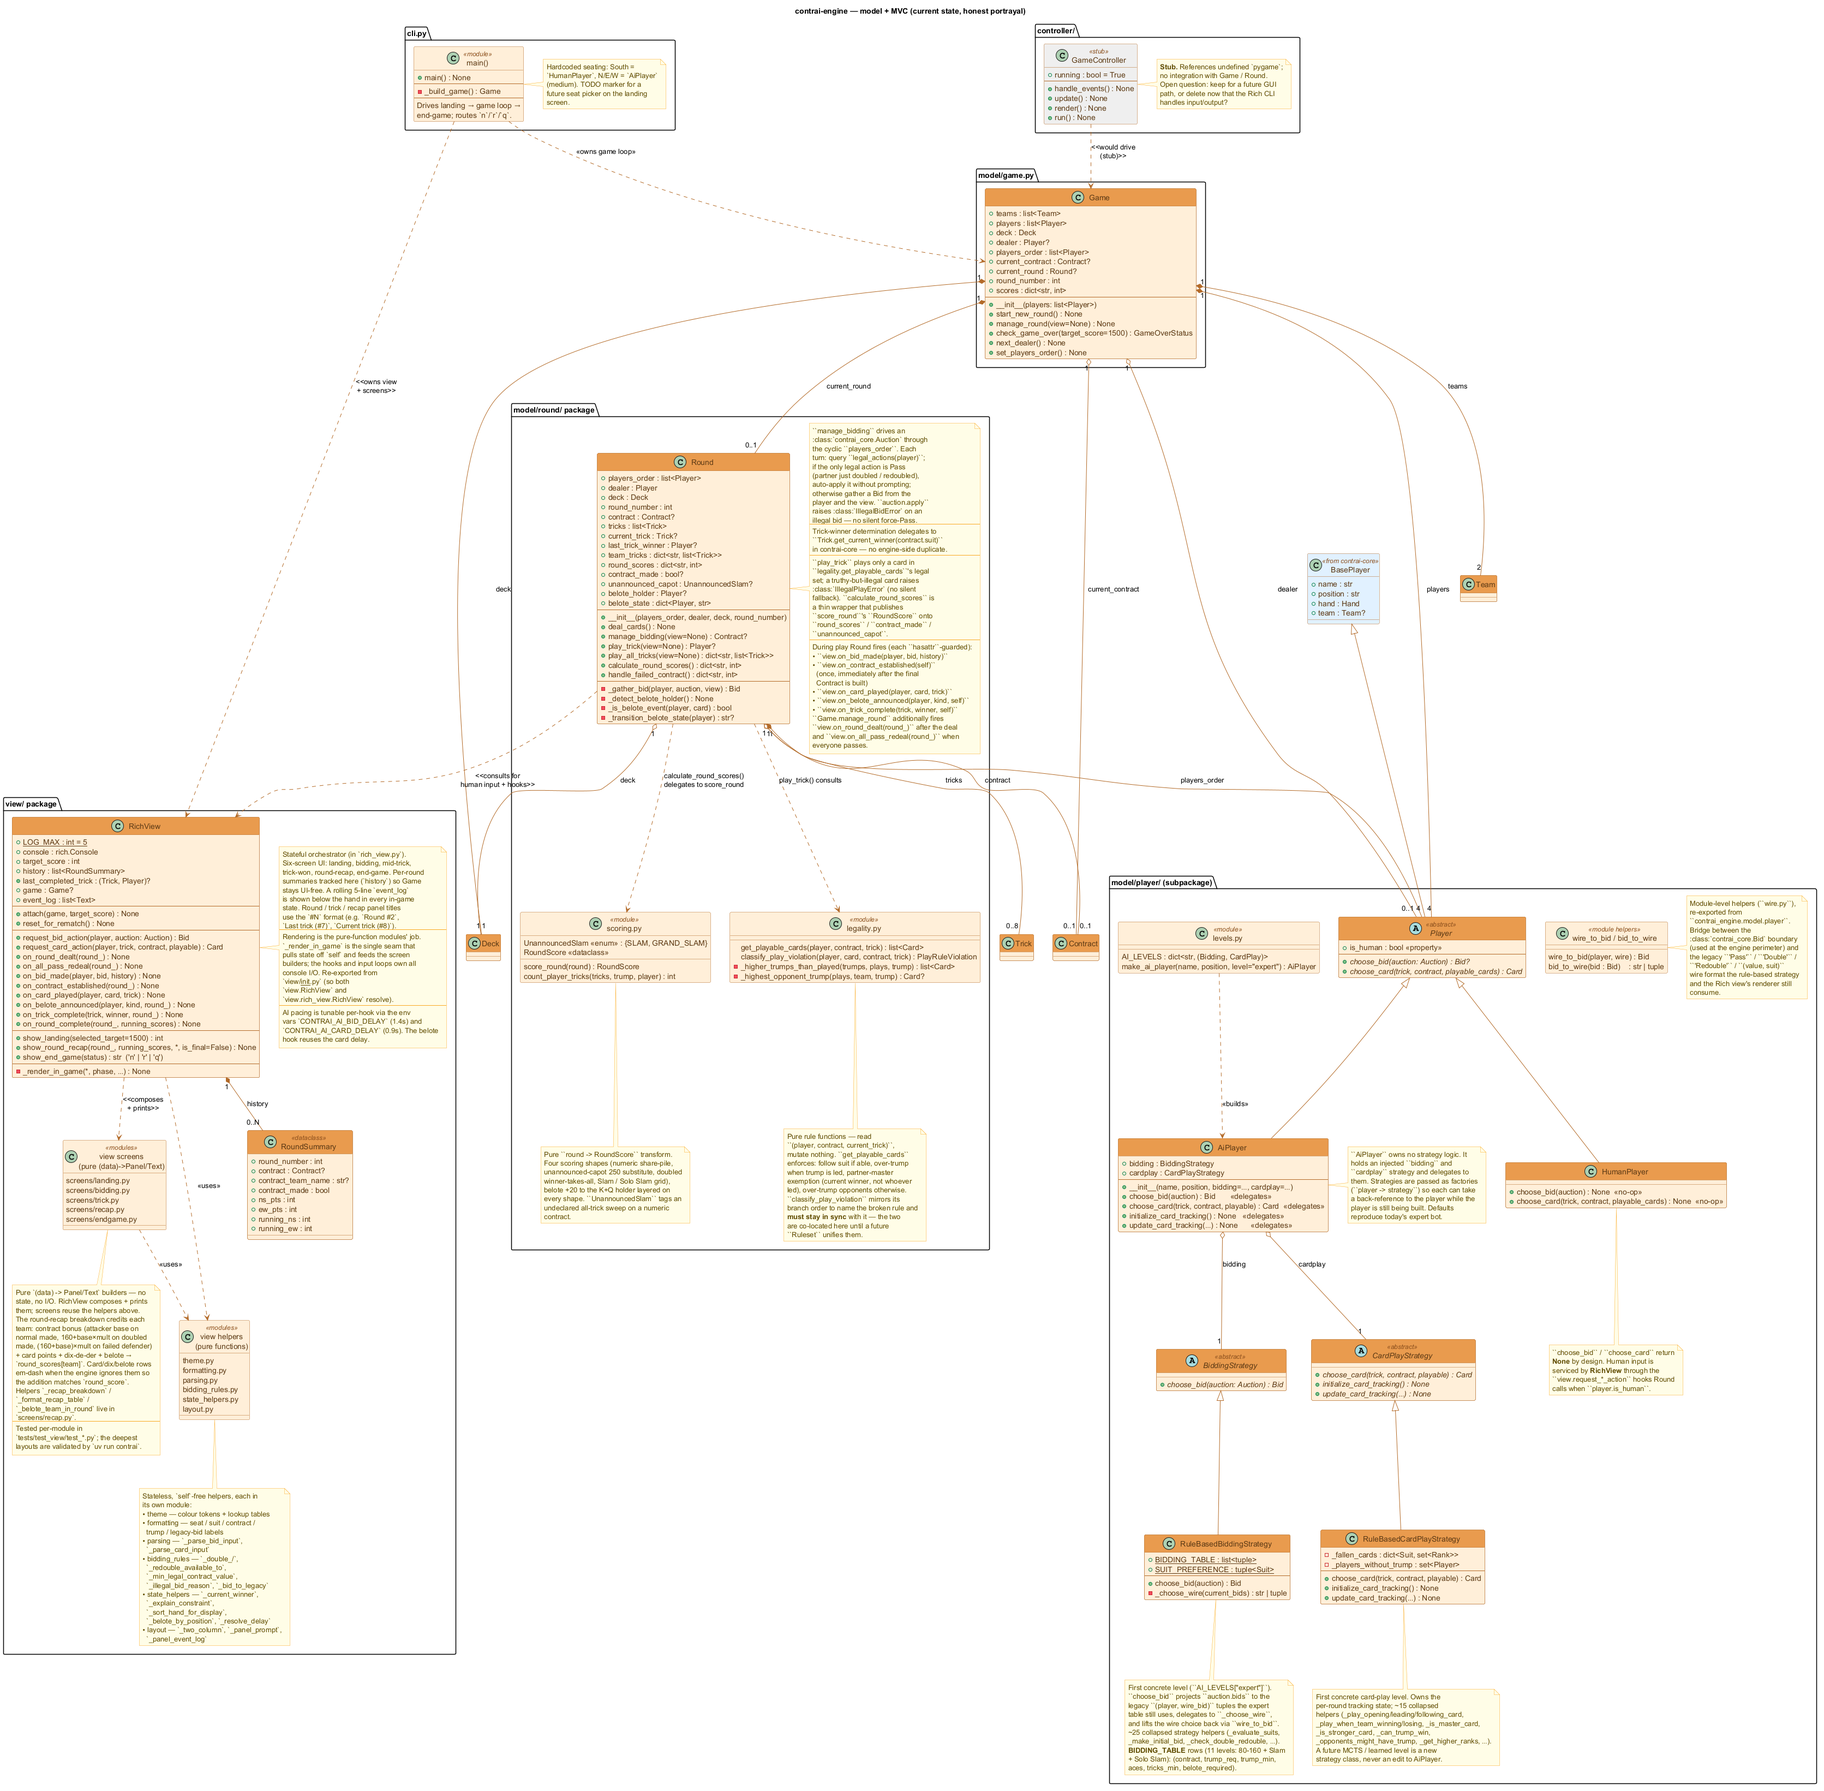
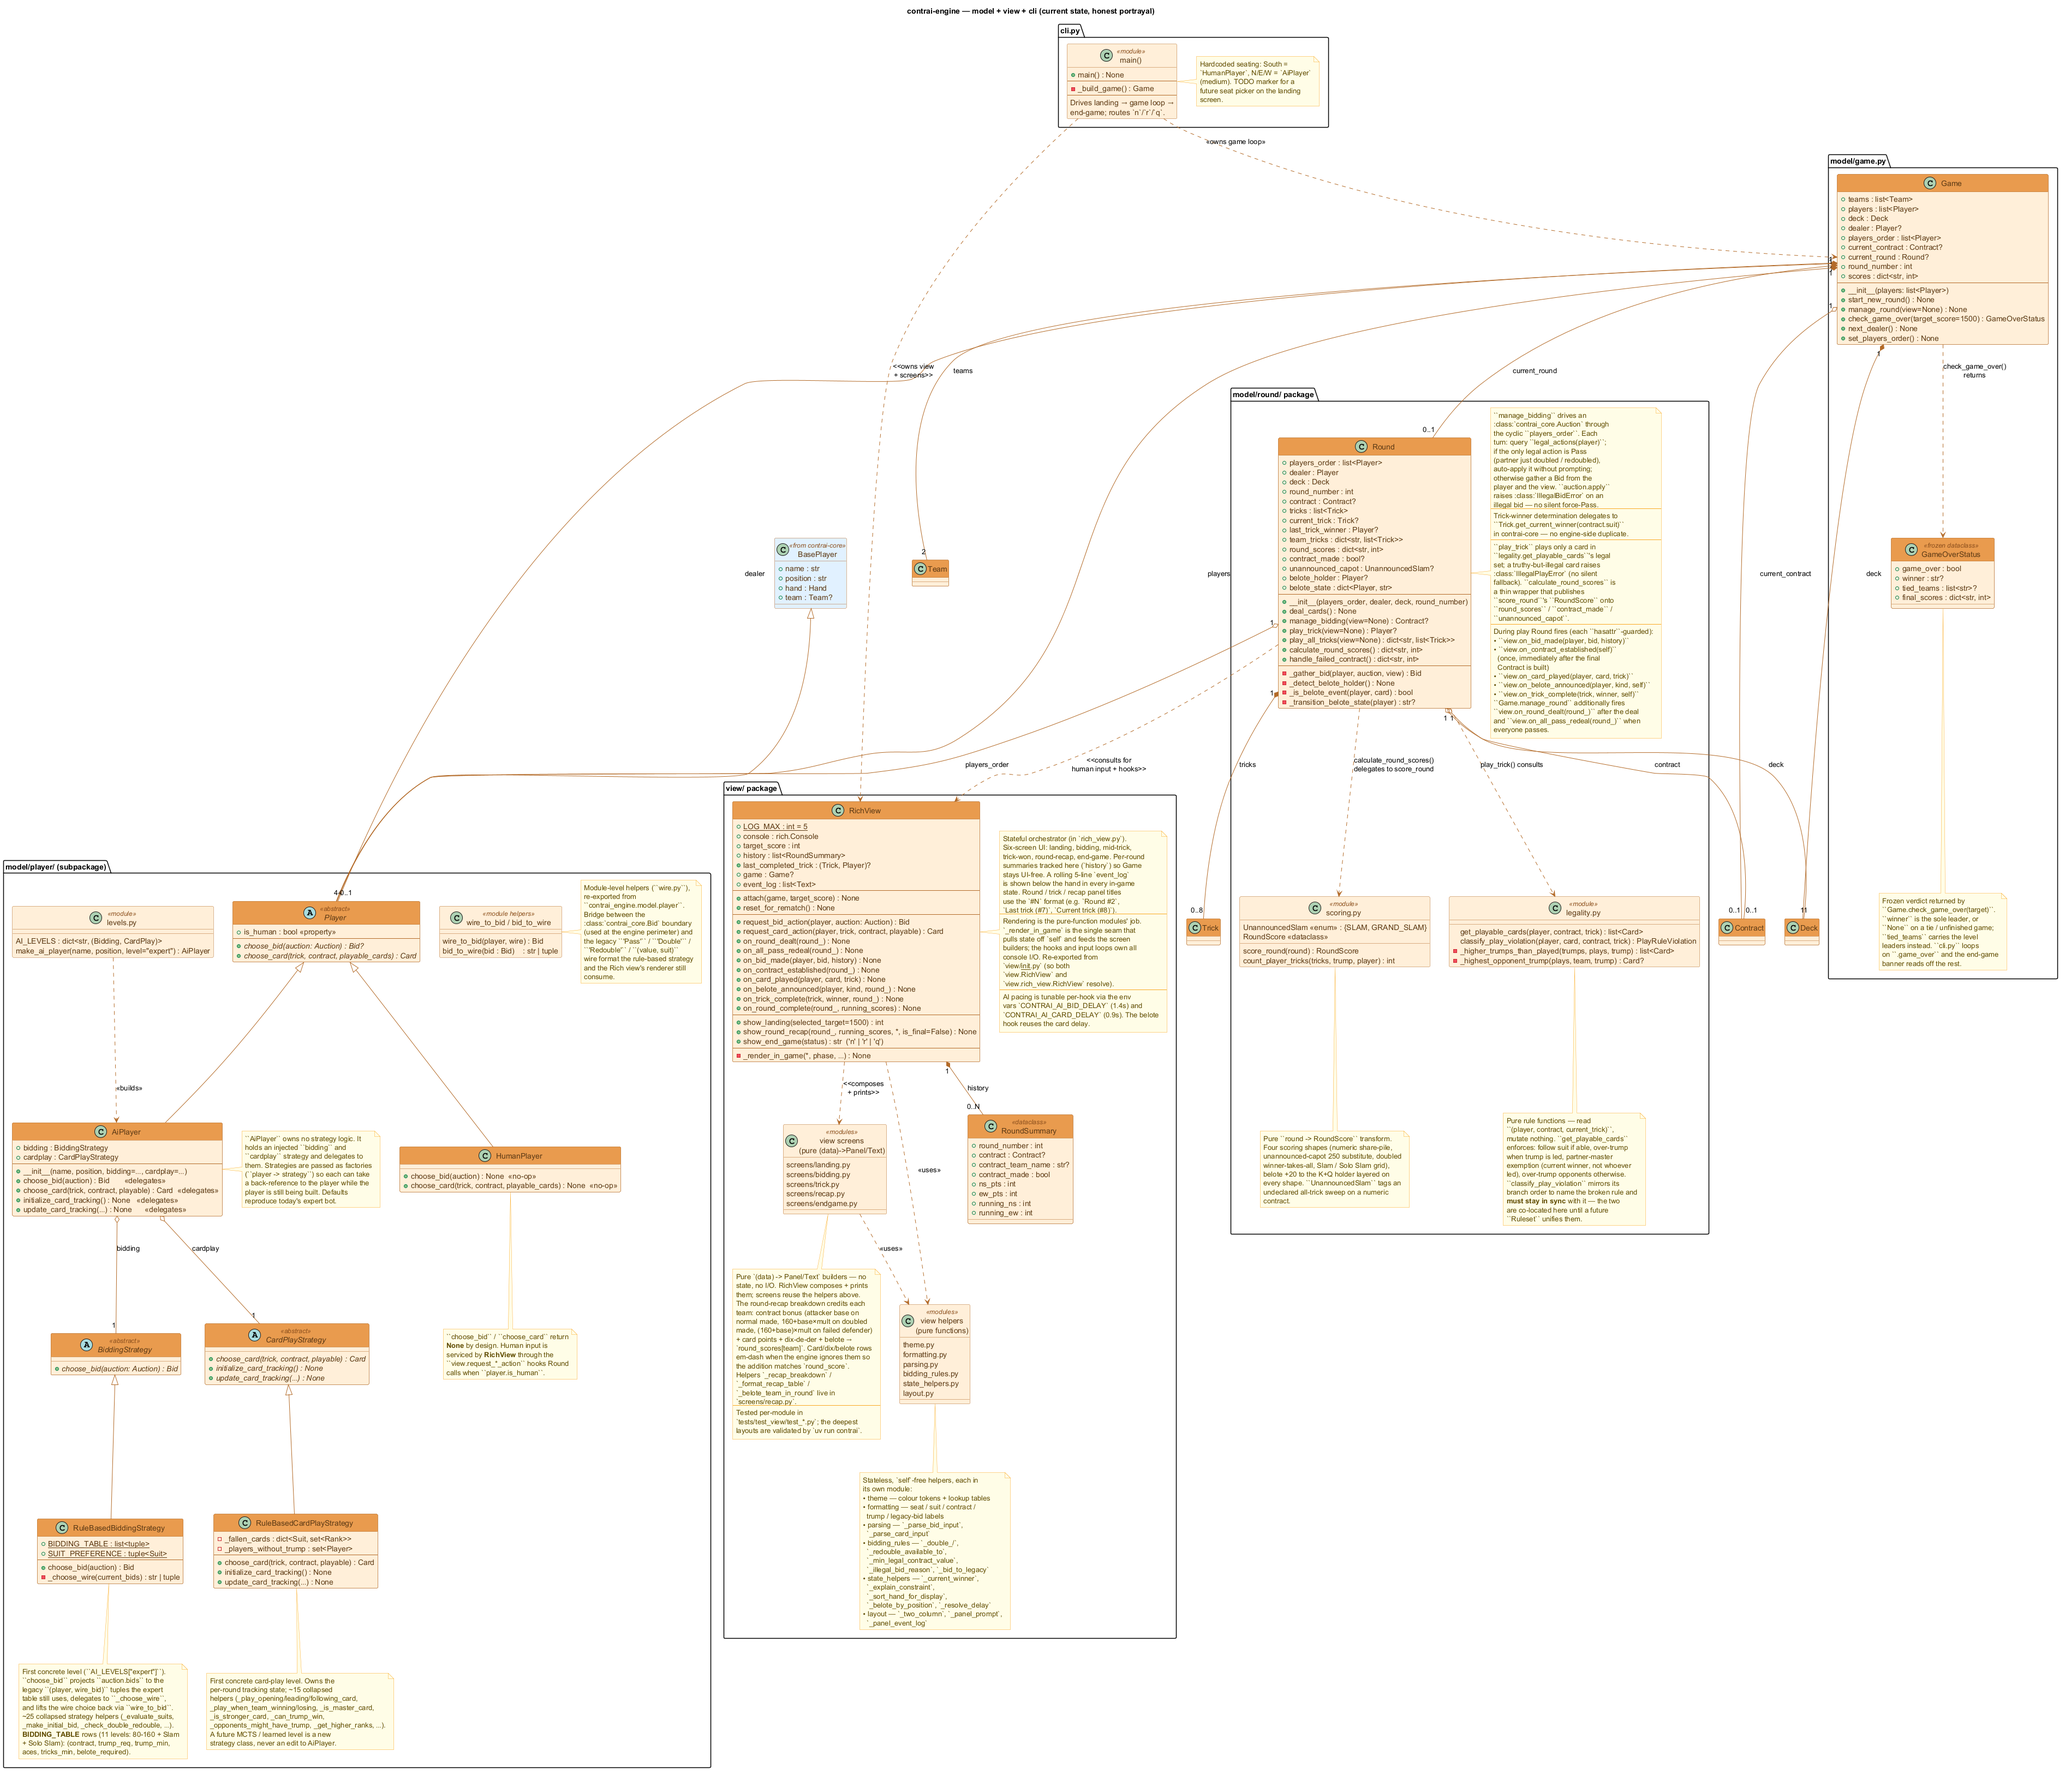
docs(engine): drop the unused GameController from diagrams and docs

diff --git a/docs/engine/index.md b/docs/engine/index.md
@@ -1,6 +1,6 @@
 # contrai-engine
 
-Game engine for Coinche / Contrée. MVC architecture, sits on top of `contrai-core` for all shared types.
+Game engine for Coinche / Contrée. Model–View architecture (the controller role is the `cli.py` game loop plus the view hooks today), sits on top of `contrai-core` for all shared types.
 
 ## Layout
 
@@ -19,7 +19,6 @@ Source at `packages/contrai-engine/src/contrai_engine/`:
     - `round.py` — `Round`, the lifecycle orchestrator: deal → `manage_bidding` → `play_trick` / `play_all_tricks` → the thin `calculate_round_scores` wrapper, plus the inline belote/rebelote helpers. Publishes `view.on_bid_made(...)`, `view.on_contract_established(...)`, `view.on_card_played(...)`, `view.on_trick_complete(...)`, and `view.on_belote_announced(...)` so the view can pace and narrate AI turns
     - `scoring.py` — the pure `score_round(round) -> RoundScore` transformation (the numeric / unannounced-capot / doubled / Slam scoring shapes, belote +20), plus `count_player_tricks` and the `UnannouncedSlam` outcome tag
     - `legality.py` — the pure card-legality oracle `get_playable_cards(player, contract, current_trick)` and its companion `classify_play_violation(...)`, co-located because their branch orders must stay in sync (this realises the *co-location* half of the deferred `Ruleset`)
-- `controller/` — `GameController` (partial stub — see [Open work](#open-work))
 - `view/` — the terminal UI, split into focused modules (see [CLI](#cli) below):
   - `rich_view.py` — `RichView`, the stateful orchestrator: console + per-game state, the engine hooks (`request_*_action`, `on_*`, `show_*`), the input loops, and `_render_in_game` (the single seam that pulls state off `self` and feeds the pure builders). `RoundSummary` lives here too. Re-exported from `view/__init__.py`, so both `from contrai_engine.view.rich_view import RichView` (used by `cli.py` / `model/game.py`) and `from contrai_engine.view import RichView` work.
   - `theme.py` — design tokens (colour palette) and lookup tables (target-score options, position / team labels, bid aliases, valid contract values)
@@ -39,7 +38,7 @@ Everything else (`Card`, `Deck`, `Hand`, `Suit`, `Rank`, `Bid`, `Contract`, `Tri
 ```plantuml format="svg" source="class_engine.puml"
 ```
 
-`Player` extends `BasePlayer` from `contrai-core` (drawn as a blue boundary element). The two concrete subclasses are `HumanPlayer` (whose `choose_bid` / `choose_card` still return `None` — the `RichView` is what actually services human input through `Round`'s `view.request_*_action` hooks) and `AiPlayer`, which holds an injected `BiddingStrategy` and `CardPlayStrategy` and delegates to them. `GameController` remains in the grey stub palette: it still references undefined `pygame` and isn't wired to `Game` / `Round`. `RichView` is the live engine view; the old `CliView` placeholder has been removed. See [Diagrams](../diagrams/) for the colour convention.
+`Player` extends `BasePlayer` from `contrai-core` (drawn as a blue boundary element). The two concrete subclasses are `HumanPlayer` (whose `choose_bid` / `choose_card` still return `None` — the `RichView` is what actually services human input through `Round`'s `view.request_*_action` hooks) and `AiPlayer`, which holds an injected `BiddingStrategy` and `CardPlayStrategy` and delegates to them. There is no standalone controller class today: the controller role is the `cli.py` game loop plus the view hooks `Round` calls. `RichView` is the live engine view; the old `CliView` placeholder has been removed. See [Diagrams](../diagrams/) for the colour convention.
 
 ## AI players
 
@@ -114,7 +113,6 @@ The two zoom diagrams below break out the dense parts.
 
 - The round test suite mirrors the `model/round/` split into three files (sharing the `players` fixture in `tests/test_model/conftest.py`): `test_round_legality.py` covers the `legality.get_playable_cards` oracle and the `legality.classify_play_violation` reason classifier; `test_round_scoring.py` covers the `scoring.score_round` grid (numeric / unannounced-capot / doubled / Slam) plus a direct `RoundScore`/`score_round` purity check; and `test_round.py` keeps the orchestrator concerns — `play_trick`'s `IllegalPlayError` raise on an illegal card, the belote tracking helpers, and the auction-driven integration test that the human seat is never prompted when their partner has doubled. The lifecycle path (`manage_bidding` end-to-end / `play_all_tricks` / `calculate_round_scores`) is still un-tested past that single integration scenario — backfill needed.
 - The screen `Panel`/`Table` *builders* (now pure functions under `view/screens/` and `view/layout.py`, no longer `RichView` methods) are lightly covered: title/text smoke tests for the round panel, bidding-history, event-log, recap tables, and the diamond's belote badge, in the matching `test_view/test_*.py` files. Layouts that aren't asserted on are still validated by `uv run contrai` smoke-running.
-- `GameController` is still the lone surviving stub (see the grey box on the class diagram). It references undefined `pygame` and isn't wired to `Game` / `Round` — open question whether to delete it now that the Rich CLI doesn't need a separate controller, or keep it for a future GUI path.
 - Sweep the rule-based strategy private helpers for any remaining `contract[…]` indexing residues — the four visible call sites were fixed during CLI work but a defensive pass through `rule_based.py` would not hurt.
 - `_check_double_redouble` in `RuleBasedBiddingStrategy._choose_wire` still uses the legacy-format `last_bid` to detect a prior Double; the inner check `last_bid == 'Double'` shadows the earlier `isinstance(last_bid, tuple)` guard so AI redouble is effectively gated on a `TODO`. Worth revisiting alongside the next AI bidding refactor — the cleanest fix is to read `auction.has_double` / `auction.has_redouble` directly instead of inferring from the wire history.
 - The rule-based strategy consumes `Auction.legal_actions(self)` indirectly today (through the wire-format adapter). A future cleanup should make the expert helpers (`_get_last_bid`, `_get_partner_bid`, `_check_double_redouble`) query the Auction directly and let `wire_to_bid` / `bid_to_wire` retire.

diff --git a/docs/diagrams/index.md b/docs/diagrams/index.md
@@ -22,7 +22,7 @@ Colour encodes **which package owns the element**, reused consistently across ev
 | Stub / unimplemented | `#9E9E9E`   | `#EEEEEE`   | `#616161` |
 | `<<future>>`         | greyed      | greyed      | dashed    |
 
-Stubbed elements (e.g. the engine's `GameController` / `CliView` today) use the grey palette plus a `<<stub>>` stereotype. Planned-but-unwired elements (e.g. SQLite persistence in the scraper) use dashed arrows and the `<<future>>` stereotype.
+Stubbed elements — code that exists but isn't wired in — use the grey palette plus a `<<stub>>` stereotype (the engine carries none today). Planned-but-unwired elements (e.g. SQLite persistence in the scraper) use dashed arrows and the `<<future>>` stereotype.
 
 ## Rendering
 
